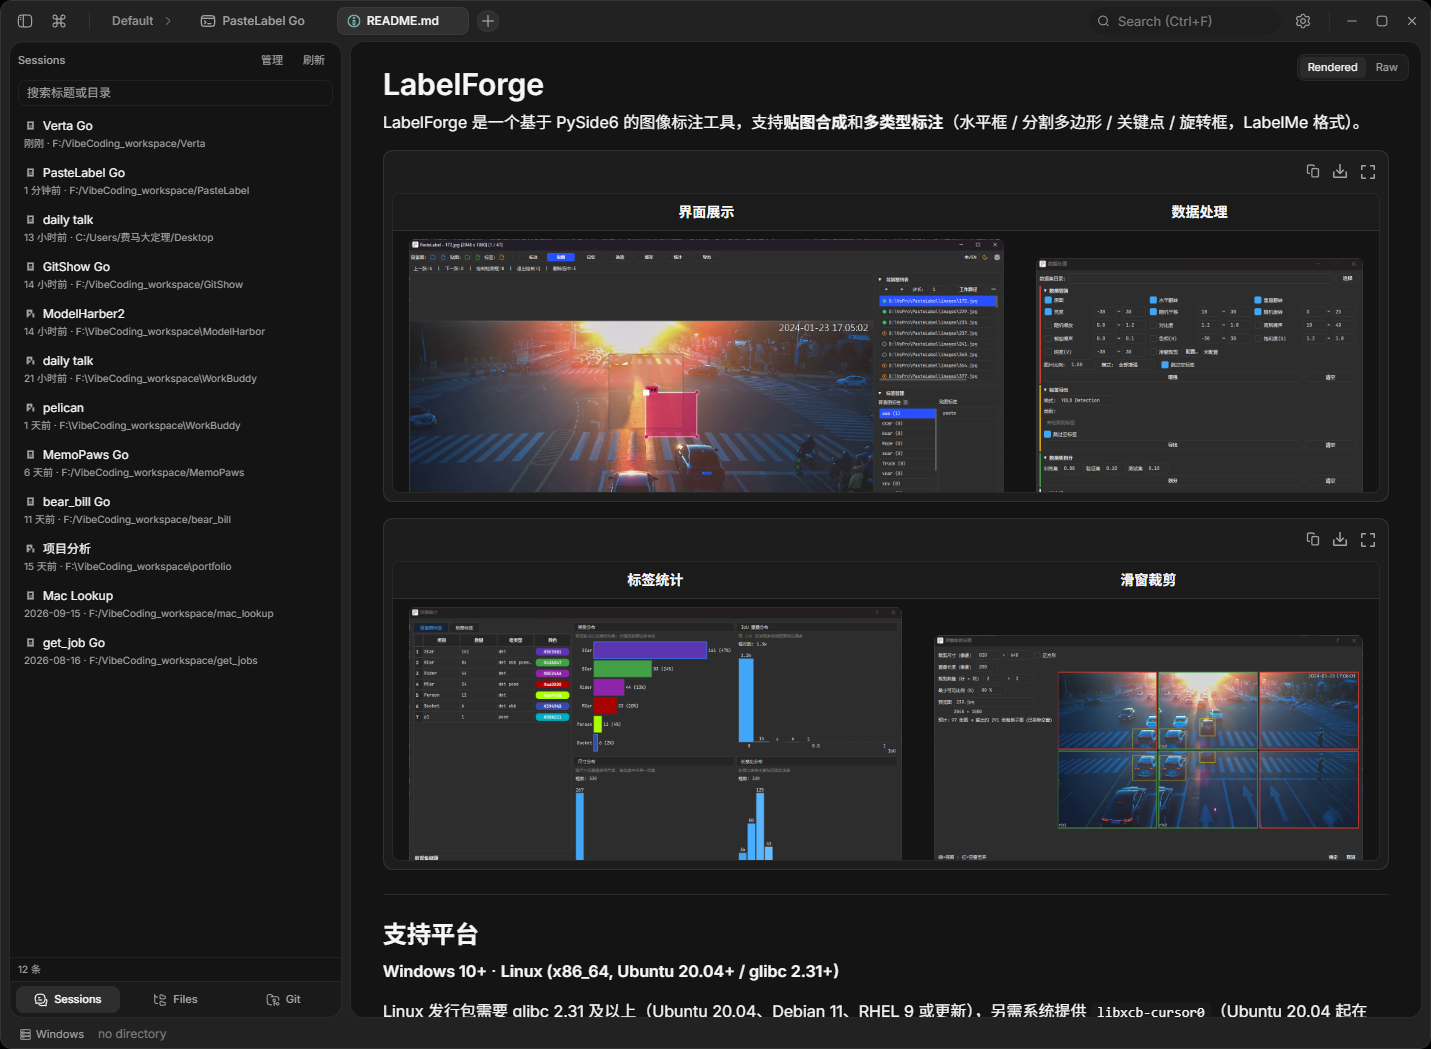
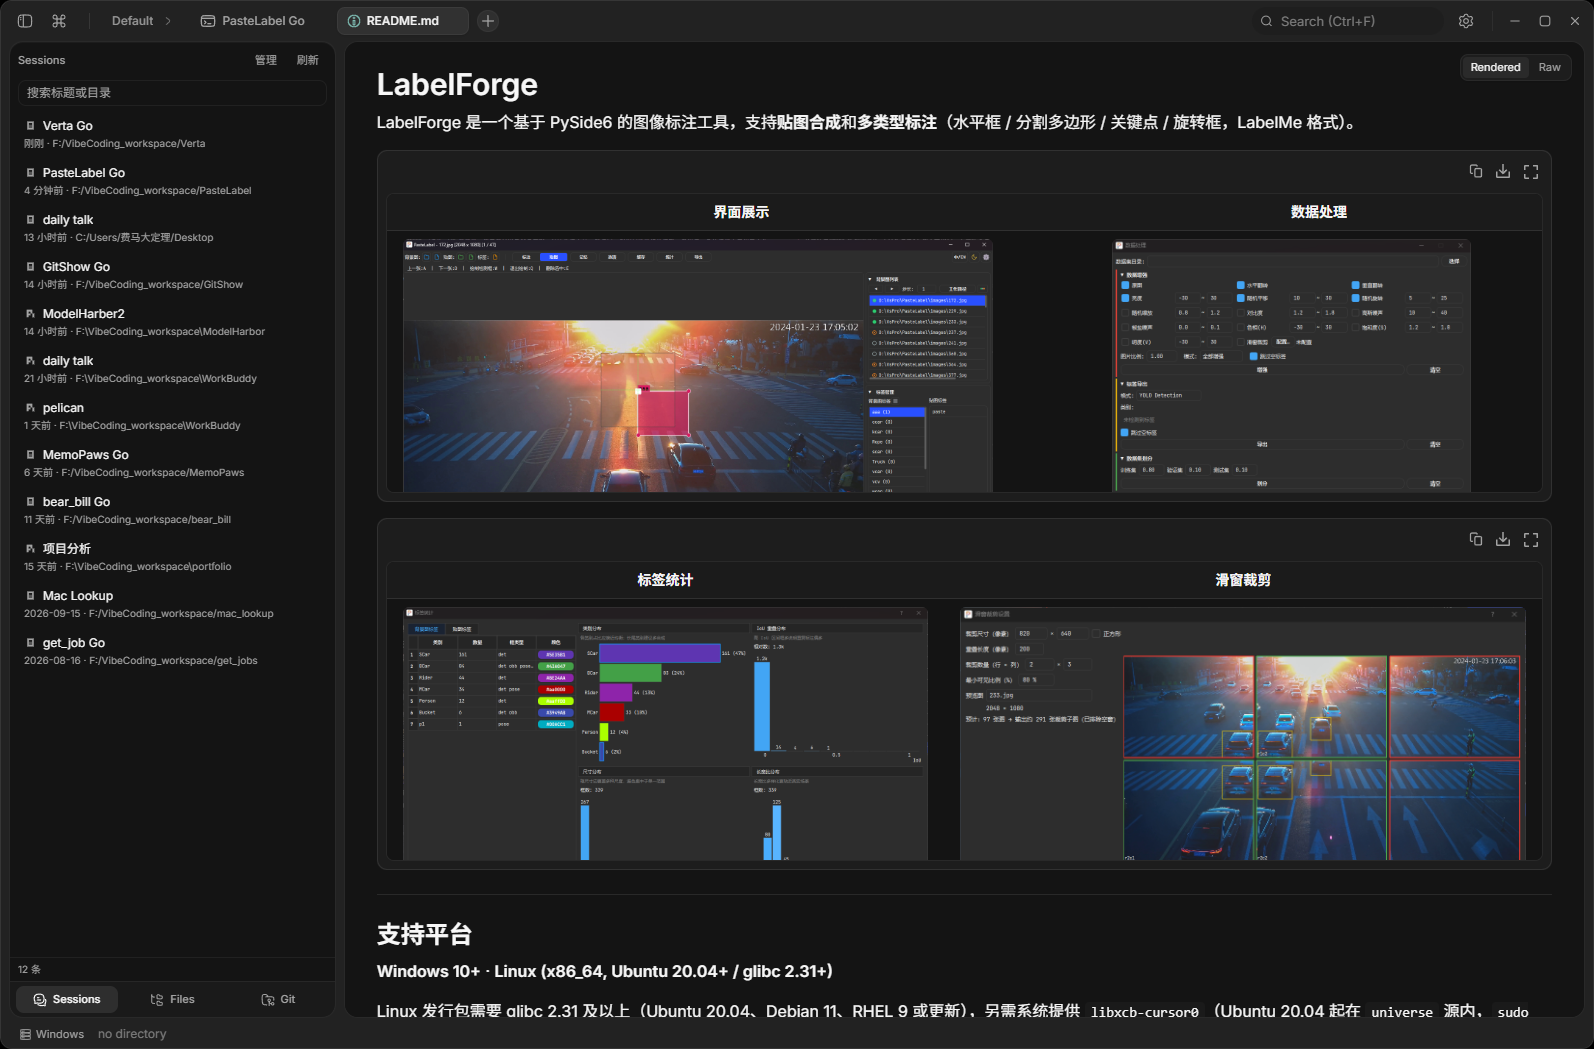
fix(markdown): keep table images proportional at the requested height
A height in markdown means the tallest the picture may be, not a fixed box: capping the height with max-height and letting the width follow keeps a row of screenshots lined up, and a narrow column shrinks a picture instead of squashing it. The height attribute had to go, because an attribute beats the CSS that maintains the ratio.

Measured before the fix: 525x380 for a 1362x792 picture (ratio 1.38 instead of 1.72). After: every picture matches its own ratio with no overflow.

diff --git a/src/modules/markdown/MarkdownImage.tsx b/src/modules/markdown/MarkdownImage.tsx
@@ -130,6 +130,20 @@ export function MarkdownImage({
         ? Number(height)
         : undefined;
 
+  // A markdown table usually asks for a height and leaves the width to the
+  // image. That height is a maximum here, so a row of pictures lines up while a
+  // narrow column can still shrink a picture without distorting it: the browser
+  // keeps the ratio and the height follows.
+  const sized =
+    numericHeight === undefined
+      ? undefined
+      : {
+          width: "auto",
+          maxHeight: `${numericHeight}px`,
+          maxWidth: "100%",
+          objectFit: "contain" as const,
+        };
+
   return (
     <img
       {...rest}
@@ -137,14 +151,17 @@ export function MarkdownImage({
       alt={alt ?? ""}
       decoding="async"
       loading="lazy"
-      height={numericHeight}
-      style={{
-        maxWidth: "100%",
-        height: numericHeight === undefined ? "auto" : undefined,
-        objectFit: "contain",
-        ...style,
+      // Height is expressed in CSS, not as an attribute: the attribute wins over
+      // any max-height, which is what squashed the wide screenshots.
+      className={
+        numericHeight === undefined
+          ? "block h-auto max-w-full rounded-sm"
+          : "block h-auto max-w-full rounded-sm"
+      }
+      style={{ ...sized, ...style }}
+      onLoad={(event: SyntheticEvent<HTMLImageElement>) => {
+        rest.onLoad?.(event);
       }}
-      className="block h-auto max-w-full rounded-sm"
       onError={(event: SyntheticEvent<HTMLImageElement>) => {
         setFailed(true);
         rest.onError?.(event);

diff --git a/scripts/dev/probes/md-geometry.js b/scripts/dev/probes/md-geometry.js
@@ -1,0 +1,33 @@
+(async () => {
+  const sleep = (ms) => new Promise((r) => setTimeout(r, ms));
+  await sleep(300);
+  const out = [];
+  const tables = [...document.querySelectorAll("table")];
+  tables.forEach((t, ti) => {
+    const wrap = t.parentElement;
+    const tr = t.getBoundingClientRect();
+    const wr = wrap.getBoundingClientRect();
+    out.push(`表 ${ti}: table=${Math.round(tr.width)}px wrapper=${Math.round(wr.width)}px 表溢出=${tr.width > wr.width + 1}`);
+    const rows = [...t.querySelectorAll("tr")];
+    rows.forEach((row, ri) => {
+      const tds = [...row.querySelectorAll("td,th")];
+      tds.forEach((td, ci) => {
+        const img = td.querySelector("img");
+        if (!img) return;
+        const tdr = td.getBoundingClientRect();
+        const ir = img.getBoundingClientRect();
+        const natural = `${img.naturalWidth}x${img.naturalHeight}`;
+        const ratioShown = (ir.width / ir.height).toFixed(3);
+        const ratioNat = (img.naturalWidth / img.naturalHeight).toFixed(3);
+        out.push(
+          `  行${ri}列${ci}: td=${Math.round(tdr.width)}x${Math.round(tdr.height)} img=${Math.round(ir.width)}x${Math.round(ir.height)} 原始=${natural}`,
+        );
+        out.push(
+          `      图片溢出单元格=${ir.width > tdr.width + 1 || ir.height > tdr.height + 1} 宽高比失真=${ratioShown !== ratioNat}(${ratioShown} vs ${ratioNat})`,
+        );
+        out.push(`      图片底边是否超出单元格=${Math.round(ir.bottom)} > ${Math.round(tdr.bottom)}`);
+      });
+    });
+  });
+  return out.join("\n");
+})();

diff --git a/scripts/dev/probes/md-img-attrs.js b/scripts/dev/probes/md-img-attrs.js
@@ -1,0 +1,12 @@
+(async () => {
+  const sleep = (ms) => new Promise((r) => setTimeout(r, ms));
+  await sleep(300);
+  const out = [];
+  for (const img of document.querySelectorAll("table img")) {
+    const cs = getComputedStyle(img);
+    out.push(
+      `attr: height=${img.getAttribute("height")} width=${img.getAttribute("width")} | computed: ${cs.width} x ${cs.height} | class="${img.className}"`,
+    );
+  }
+  return out.join("\n");
+})();
